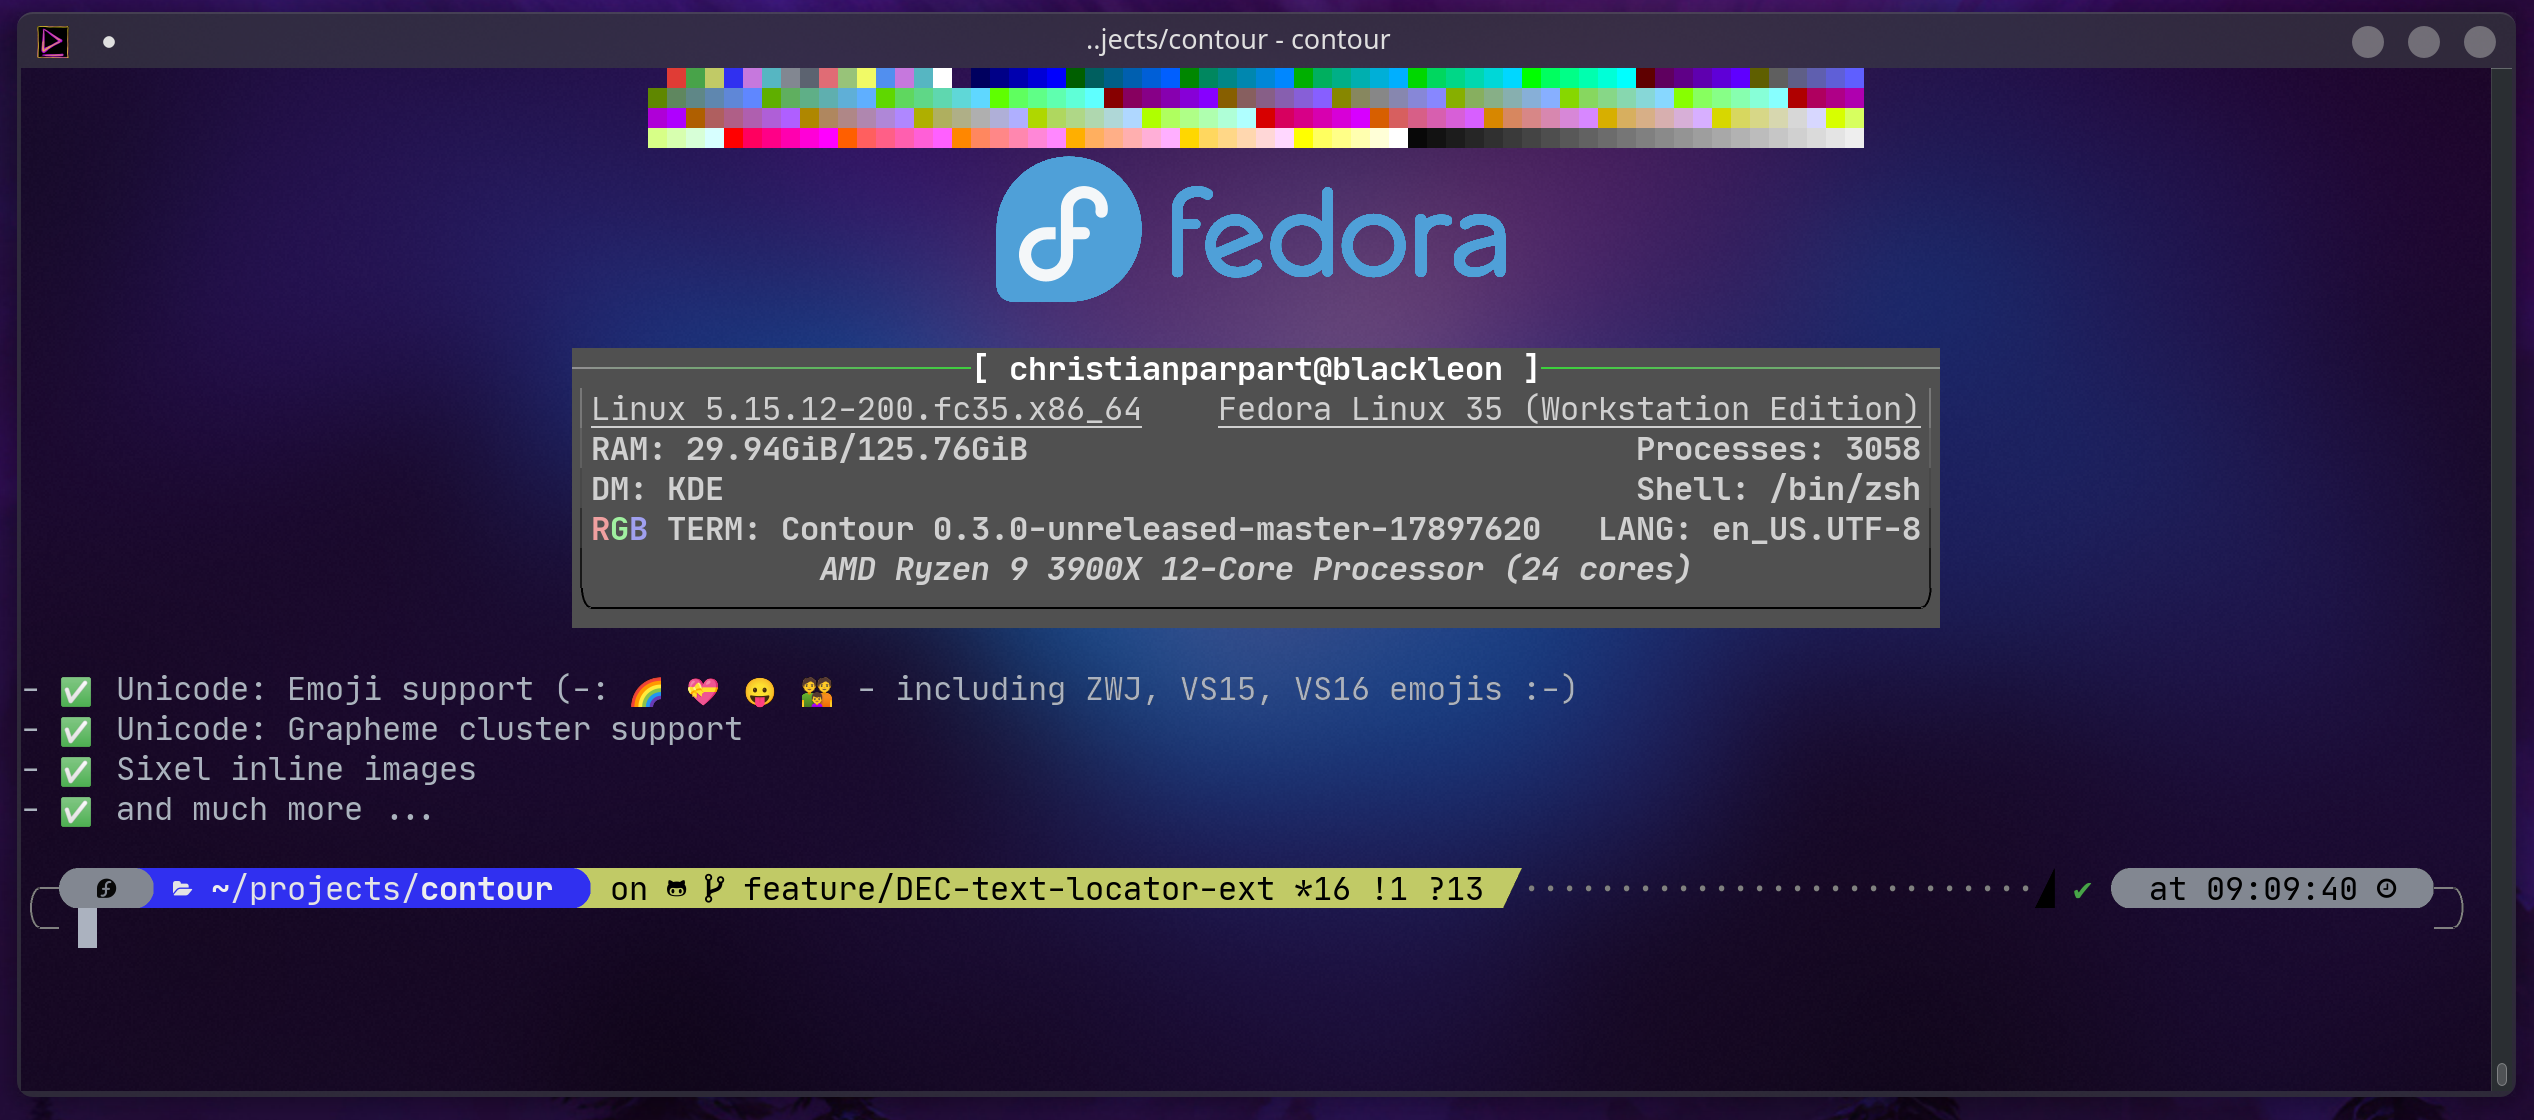
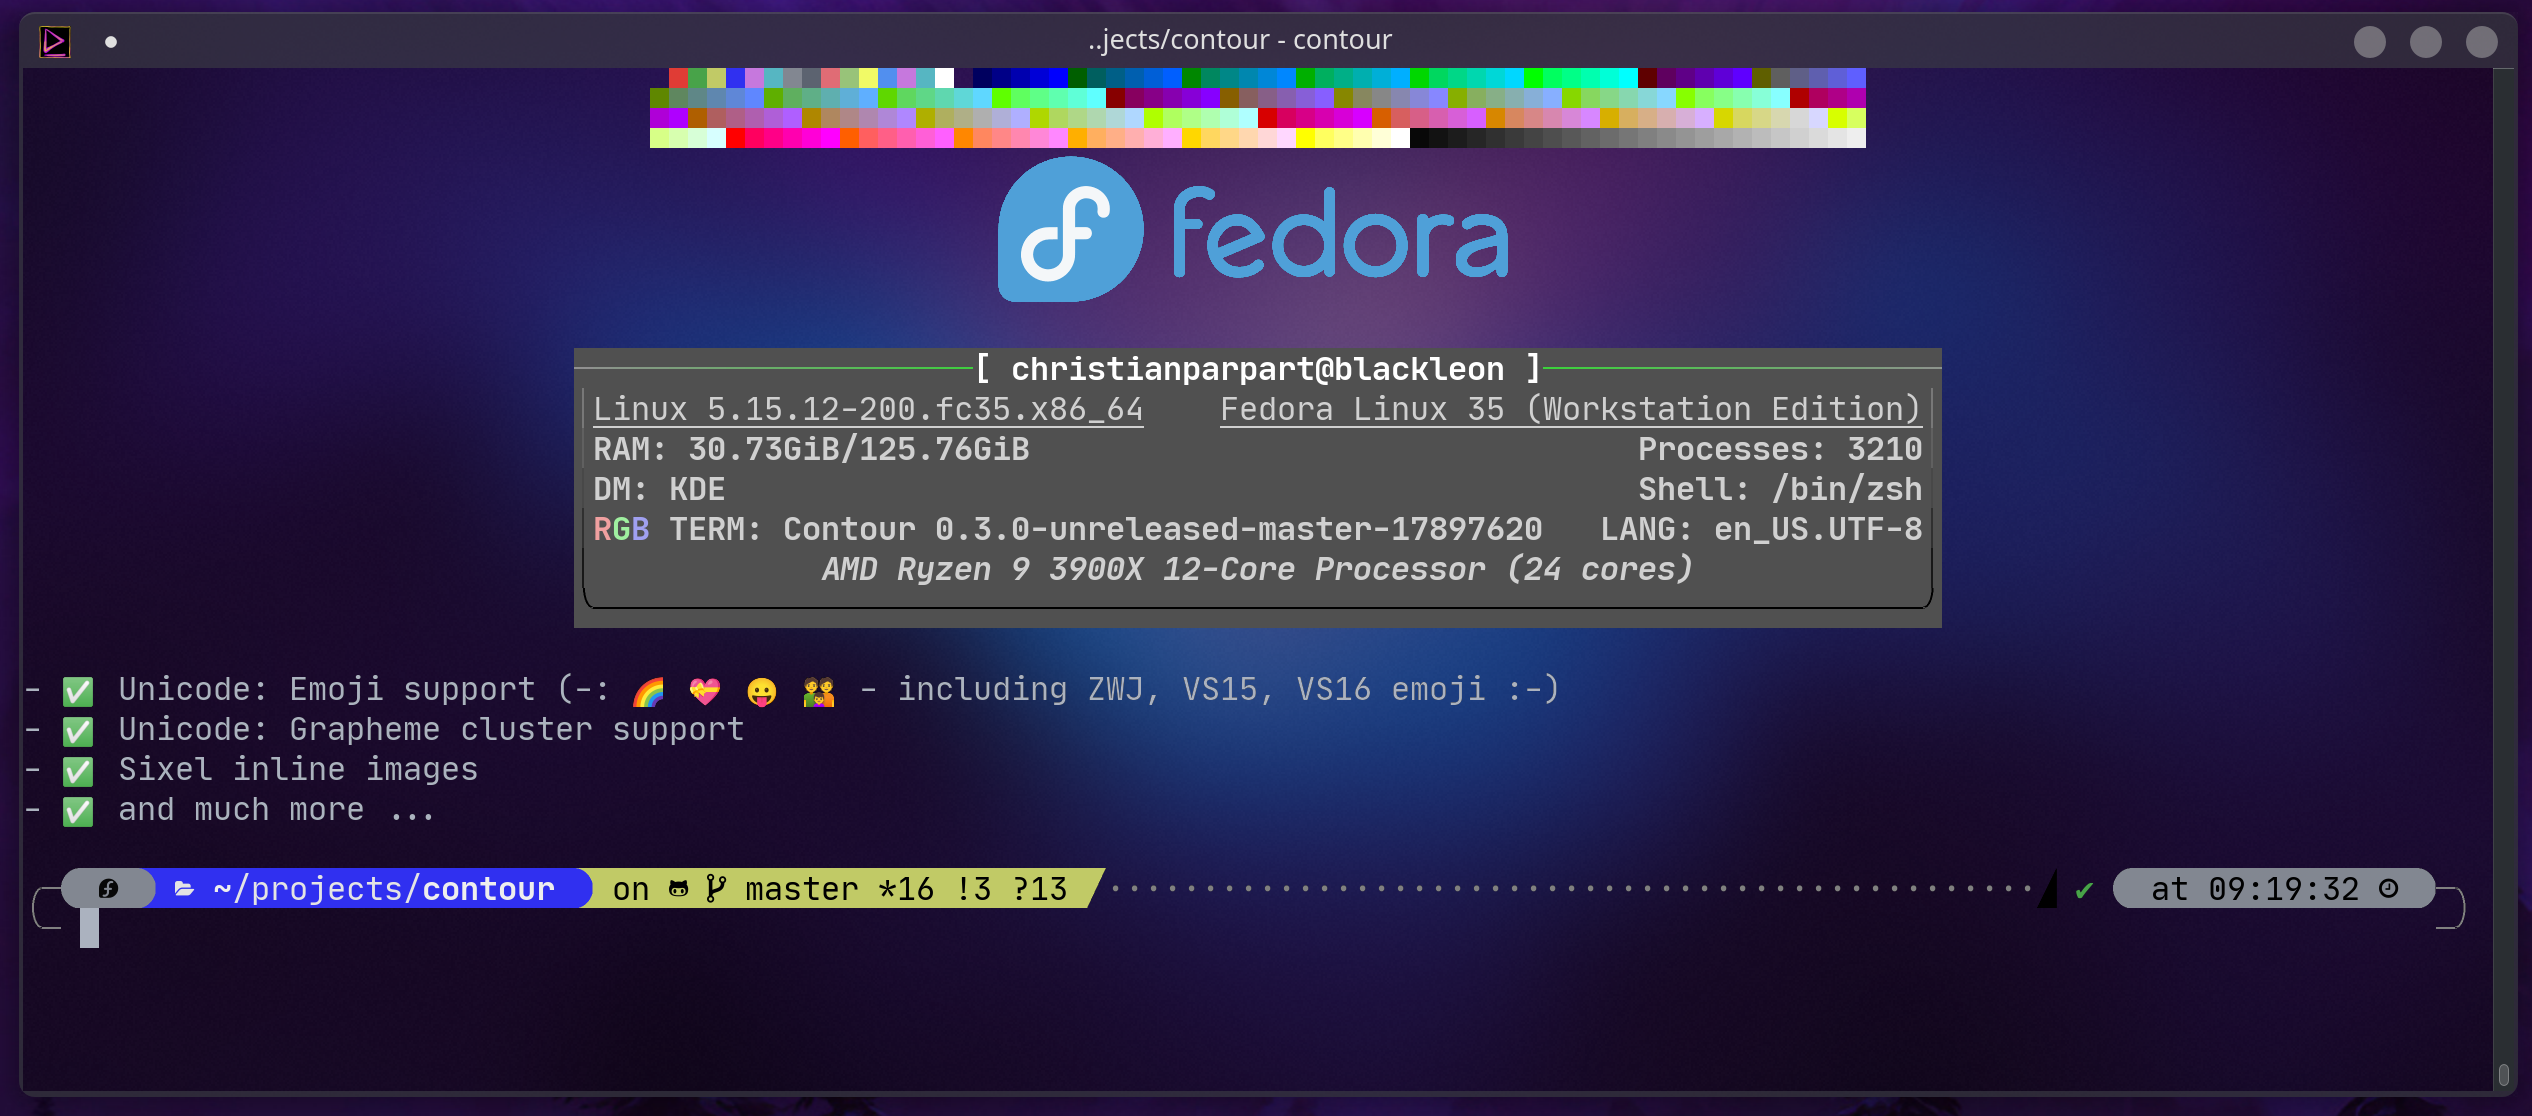
s/emojis/emoji/g

diff --git a/src/terminal_renderer/TextRenderer.cpp b/src/terminal_renderer/TextRenderer.cpp
@@ -259,7 +259,7 @@ optional<TextRenderer::DataRef> TextRenderer::getTextureInfo(text::glyph_key con
                               ? 2u
                               : 1u; // is this the only case - with colored := Emoji presentation?
     // FIXME: this `2` is a hack of my bad knowledge. FIXME.
-    // As I only know of emojis being colored fonts, and those take up 2 cell with units.
+    // As I only know of emoji being colored fonts, and those take up 2 cell with units.
 
     // {{{ scale bitmap down iff bitmap is emoji and overflowing in diemensions
     if (glyph.format == text::bitmap_format::rgba)

diff --git a/README.md b/README.md
@@ -18,7 +18,7 @@ for power users with a modern feature mindset.
 - ✅ Available on all 3 major platforms, Linux, OS/X, Windows (Windows is alpha stage).
 - ✅ GPU-accelerated rendering.
 - ✅ Font ligatures support (such as in Fira Code).
-- ✅ Unicode: Emoji support (-: 🌈 💝 😛 👪 - including ZWJ, VS15, VS16 emojis :-)
+- ✅ Unicode: Emoji support (-: 🌈 💝 😛 👪 - including ZWJ, VS15, VS16 emoji :-)
 - ✅ Unicode: Grapheme cluster support
 - ✅ Bold and italic fonts
 - ✅ High-DPI support.

diff --git a/docs/text-stack.md b/docs/text-stack.md
@@ -128,7 +128,7 @@ the appropriate texture atlas as well as screen coordinates
 where to render those glyphs on the target surface.
 
 There is one texture atlas for monochrome glyphs (this is usually standard text)
-as well as one texture atlas for colored glyphs (usually colored emojis).
+as well as one texture atlas for colored glyphs (usually colored emoji).
 Additionally there can be a third type of texture atlas for storing
 LCD anti-aliased bitmap glyphs.
 
